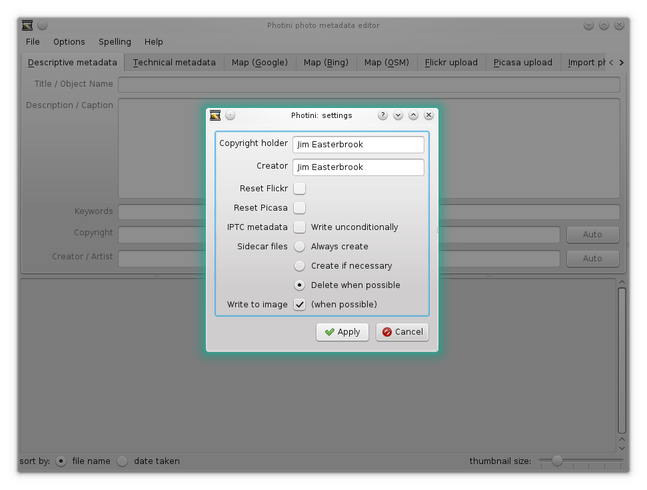
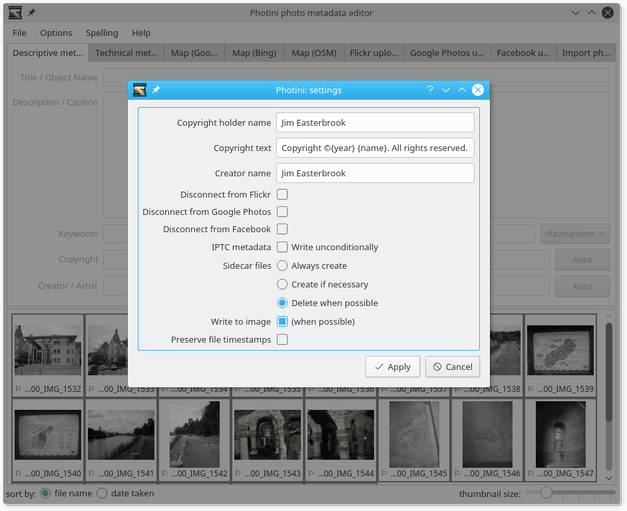
Updated configuration documentation

diff --git a/src/photini/__init__.py b/src/photini/__init__.py
@@ -1,4 +1,4 @@
 from __future__ import unicode_literals
 
 __version__ = '2017.8.1'
-build = '890 (44b5ba4)'
+build = '891 (229b08b)'

diff --git a/src/doc/manual/configuration.rst b/src/doc/manual/configuration.rst
@@ -11,8 +11,14 @@ The ``Options`` menu also has a ``Settings`` item which opens the dialog shown b
 
 .. image:: ../images/screenshot_36.png
 
-This allows you to edit the names used to auto-generate some descriptive metadata, reset the Flickr or Picasa authorisation (requiring you to re-authenticate next time you use them) and adjust how Photini uses "sidecar" files and IPTC metadata.
+The top three items can be used to adjust the auto-generated copyright and creator fields on the descriptive metadata tab.
+The ``copyright text`` entry has place-holders where the photograph's "taken" year and the copyright holder's name are inserted.
+You might want to change the surrounding text to suit the law in your country, or even to make your photographs rights free if you like.
 
+The next three items allow you to delete Photini's "Oauth tokens" for Flickr, Google Photos or Facebook.
+This forces you to re-authenticate next time you use any of these services, just like clicking ``Log out`` on the relevant tab.
+
+The next items adjust how Photini uses "sidecar" files and IPTC metadata.
 Sidecar files allow metadata to be stored without needing to write to the actual image file.
 If you deselect "write to image" then sidecars will always be created.
 Otherwise, you can choose to have them always created (storing data in parallel with the image file), only created when necessary (e.g. an image file is write protected), or deleted when possible (if metadata can be copied to the image file the sidecar is deleted).
@@ -20,6 +26,10 @@ Otherwise, you can choose to have them always created (storing data in parallel 
 The `Metadata Working Group <http://www.metadataworkinggroup.org/specs/>`_ recommends that IPTC metadata is not written to files unless already present.
 Photini has an option to always write IPTC metadata.
 You may need this if you use some other software that reads IPTC but not Exif or XMP.
+
+Finally there is an option to preserve file timestamps.
+This allows Photini to write metadata to an image file without changing the file's "modification time" as displayed in a file browser.
+You may find this useful if you often use a browser to sort files by date.
 
 Spell checking
 ^^^^^^^^^^^^^^
@@ -44,6 +54,7 @@ The default options in the configuration file are in the ``[pyqt]`` section:
    [pyqt]
    using_pyqt5 = auto
    using_qtwebengine = auto
+   native_dialog = True
 
 To force use of PyQt4 set the value of ``using_pyqt5`` to ``False``.
 To force the use of QtWebKit set the value of ``using_qtwebengine`` to ``False``.
@@ -51,6 +62,9 @@ You can check which versions Photini is currently using by running it in a comma
 
    python -m photini.editor --version
 
+Setting the ``native_dialog`` option to ``False`` makes Photini use a Qt dialog to select files to open instead of the normal operating system dialog.
+This may be useful if your operating system has a case sensitive file filter, so selecting "Images" or "Videos" doesn't work properly if your files have upper case names.
+
 Note that there is no GUI to set these options.
-You should only need to adjust them if Photini crashes on startup, in which case the GUI would be unusable.
+You may need to adjust them if Photini crashes on startup, in which case the GUI would be unusable.
 The configuration file can be edited with any plain text editing program.
